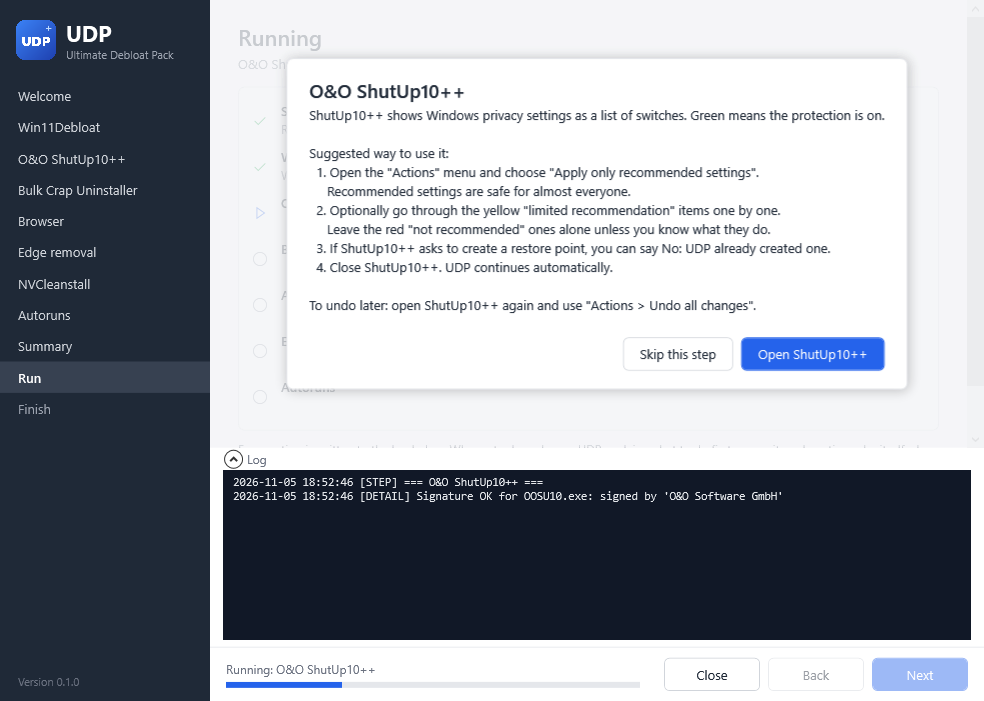
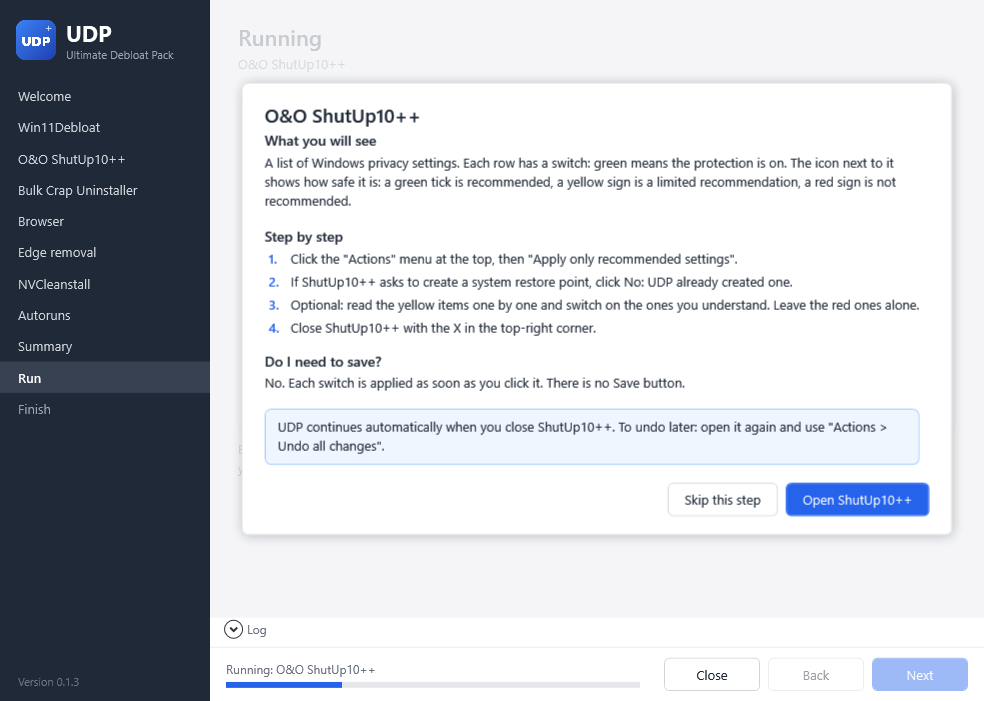
Clearer, formatted guides for the interactive tools (v0.1.3)
Each guide now has headings, numbered steps, a "Do I need to save?"
answer and what to do when done; the overlay renders them formatted and
folds the log away while a guide is open.

Changed region(s): [[0.2439, 0.0899, 0.9451, 0.5692], [0.2134, 0.5991, 1.0, 0.9287]]

diff --git a/ui/MainWindow.xaml b/ui/MainWindow.xaml
@@ -36,7 +36,7 @@
             <ContentControl x:Name="PageHost" Margin="0"/>
 
             <Border x:Name="Overlay" Background="#CCF3F4F6" Visibility="Collapsed">
-                <Border Style="{StaticResource Card}" MaxWidth="700" Margin="30" Padding="22,18"
+                <Border Style="{StaticResource Card}" MaxWidth="760" Margin="30" Padding="22,18"
                         VerticalAlignment="Center" HorizontalAlignment="Center">
                     <Border.Effect>
                         <DropShadowEffect BlurRadius="18" ShadowDepth="2" Opacity="0.25"/>
@@ -45,8 +45,8 @@
                         <TextBlock x:Name="OverlayTitle" DockPanel.Dock="Top" Style="{StaticResource PageTitle}" FontSize="19"/>
                         <StackPanel x:Name="OverlayButtons" DockPanel.Dock="Bottom" Orientation="Horizontal"
                                     HorizontalAlignment="Right" Margin="0,16,0,0"/>
-                        <ScrollViewer VerticalScrollBarVisibility="Auto" MaxHeight="420">
-                            <TextBlock x:Name="OverlayBody" Style="{StaticResource Body}"/>
+                        <ScrollViewer x:Name="OverlayScroll" VerticalScrollBarVisibility="Auto" MaxHeight="460">
+                            <StackPanel x:Name="OverlayBody" Margin="0,0,10,0"/>
                         </ScrollViewer>
                     </DockPanel>
                 </Border>

diff --git a/CHANGELOG.md b/CHANGELOG.md
@@ -4,6 +4,13 @@ All notable changes to Ultimate Debloat Pack are listed here. The format follows
 
 ## [Unreleased]
 
+## [0.1.3] - 2026-11-05
+
+### Changed
+
+- **Clearer guides before each tool opens.** The guides for ShutUp10++, Bulk Crap Uninstaller, NVCleanstall and Autoruns now have headings, numbered steps, a "Do I need to save?" answer and what to do when you are done. For example, Autoruns has no Save button: unticking an entry is enough.
+- The guides are shown formatted (headings, numbered steps, highlighted notes) in a wider panel, and the log folds away while a guide is open.
+
 ## [0.1.2] - 2026-11-05
 
 ### Added
@@ -43,7 +50,8 @@ Found during the first virtual machine test, planned for the next releases:
 - Edge removal can report "Failed" although Edge was removed: the result is checked before Edge's own uninstaller has finished.
 - Edge shortcuts (desktop, Start menu) stay behind after Edge removal and open an empty window.
 
-[Unreleased]: https://github.com/HamidDidNotEat/Ultimate-Debloat-Pack/compare/v0.1.2...HEAD
+[Unreleased]: https://github.com/HamidDidNotEat/Ultimate-Debloat-Pack/compare/v0.1.3...HEAD
+[0.1.3]: https://github.com/HamidDidNotEat/Ultimate-Debloat-Pack/compare/v0.1.2...v0.1.3
 [0.1.2]: https://github.com/HamidDidNotEat/Ultimate-Debloat-Pack/compare/v0.1.1...v0.1.2
 [0.1.1]: https://github.com/HamidDidNotEat/Ultimate-Debloat-Pack/compare/v0.1.0...v0.1.1
 [0.1.0]: https://github.com/HamidDidNotEat/Ultimate-Debloat-Pack/releases/tag/v0.1.0

diff --git a/docs/autoruns.md b/docs/autoruns.md
@@ -31,7 +31,9 @@ Autoruns runs after every uninstall (Win11Debloat, BCU, Edge), so it shows only 
    - **Yellow** rows point to files that no longer exist, usually leftovers.
    - **Pink** rows have no verified publisher: look them up before changing them.
 5. Leave drivers, security software and anything you do not recognise alone.
-6. Close Autoruns. Changes take effect after the restart at the end.
+6. Close Autoruns with the X. UDP continues automatically.
+
+**Do I need to save?** No. Unticking an entry is applied immediately and takes effect at the next restart. *File > Save* only exports a list of entries for comparing later; you do not need it.
 
 The first time it runs, Autoruns shows Microsoft's license terms. Read and accept them yourself; UDP does not accept them for you.
 

diff --git a/docs/bulk-crap-uninstaller.md b/docs/bulk-crap-uninstaller.md
@@ -35,6 +35,9 @@ This exception is recorded in the `integrity.notes` of the `bcu` entry in `confi
    - **Questionable** and **Bad:** leave them alone.
 3. Keep **Show system components** and **Show protected items** switched off in the filter options on the left. They are off by default and hide entries that should not be removed.
 4. You do not need BCU's startup manager: startup entries are reviewed later in Autoruns.
+5. Close BCU with the X. UDP continues automatically.
+
+**Do I need to save?** No. Each uninstall happens right away; leftovers are deleted when you click **Delete selected** in the leftover window.
 
 ## Do NOT uninstall here
 

diff --git a/docs/shutup10.md b/docs/shutup10.md
@@ -21,6 +21,9 @@ ShutUp10++ shows Windows privacy, telemetry and app-permission settings as a lis
 1. *Actions > Apply only recommended settings*.
 2. Optionally review the yellow items one by one.
 3. If ShutUp10++ offers to create a restore point, you can decline: UDP already made one.
+4. Close ShutUp10++ with the X. UDP continues automatically.
+
+**Do I need to save?** No. Each switch is applied as soon as you click it; there is no Save button.
 
 **Silent (with your own settings).** UDP runs `OOSU10.exe <your file>.cfg /quiet`, the syntax that ShutUp10++ writes into the header of the files it exports.
 

diff --git a/README.md b/README.md
@@ -230,7 +230,7 @@ Planned for the next `v0.1.x` releases:
 
 - [x] Edge removal: reliable result check (v0.1.1)
 - [x] Edge removal: remove the leftover Edge shortcuts (v0.1.2)
-- [ ] Clearer step-by-step guides for the tools you work in
+- [x] Clearer step-by-step guides for the tools you work in (v0.1.3)
 - [ ] Autoruns: what is usually safe to switch off
 - [ ] Win11Debloat: choose exactly which apps to remove
 - [ ] Browser: replace Edge on the taskbar with the new browser
